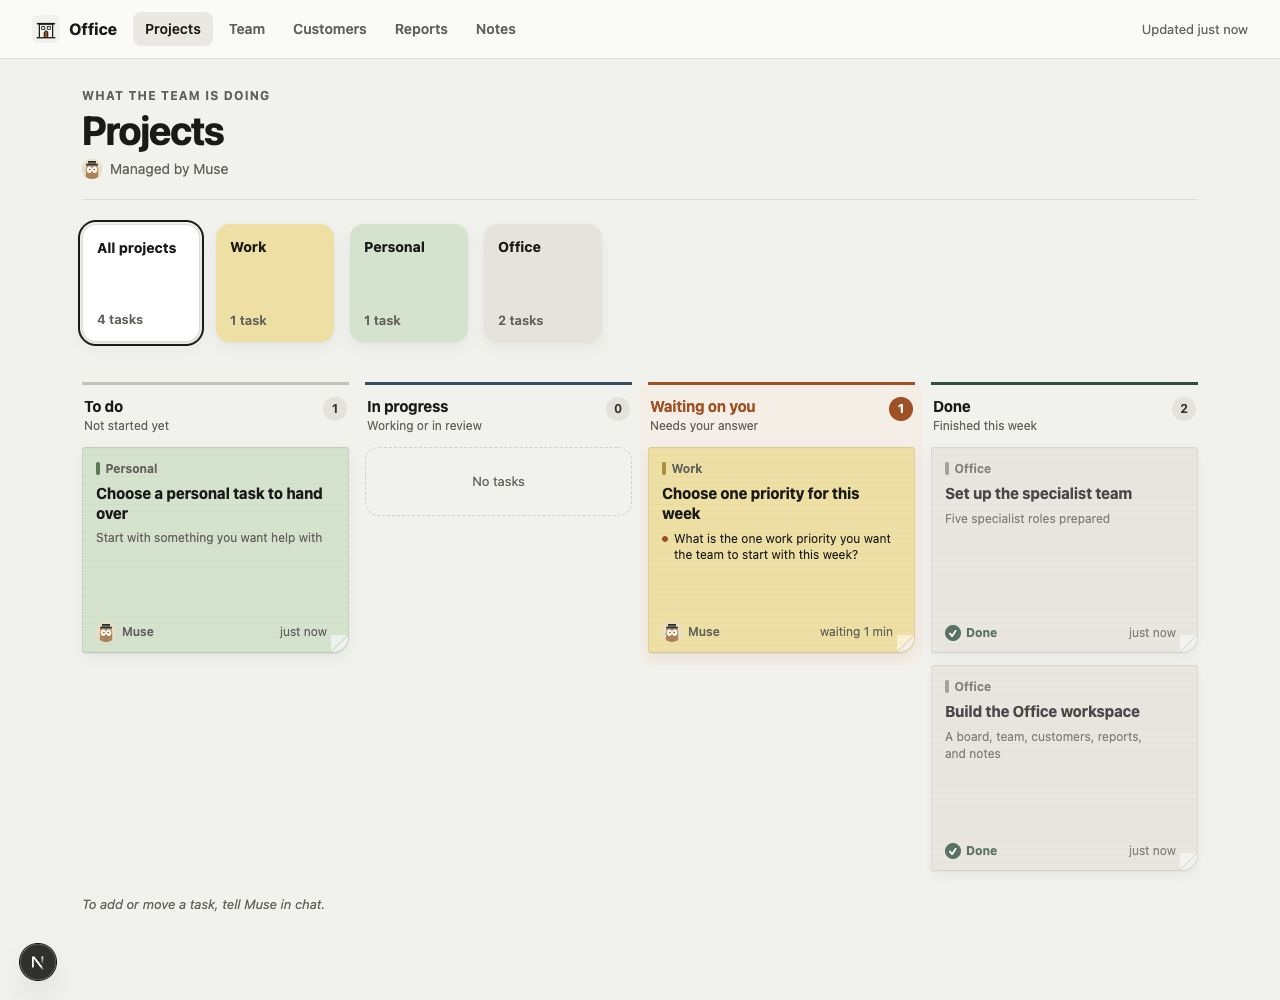
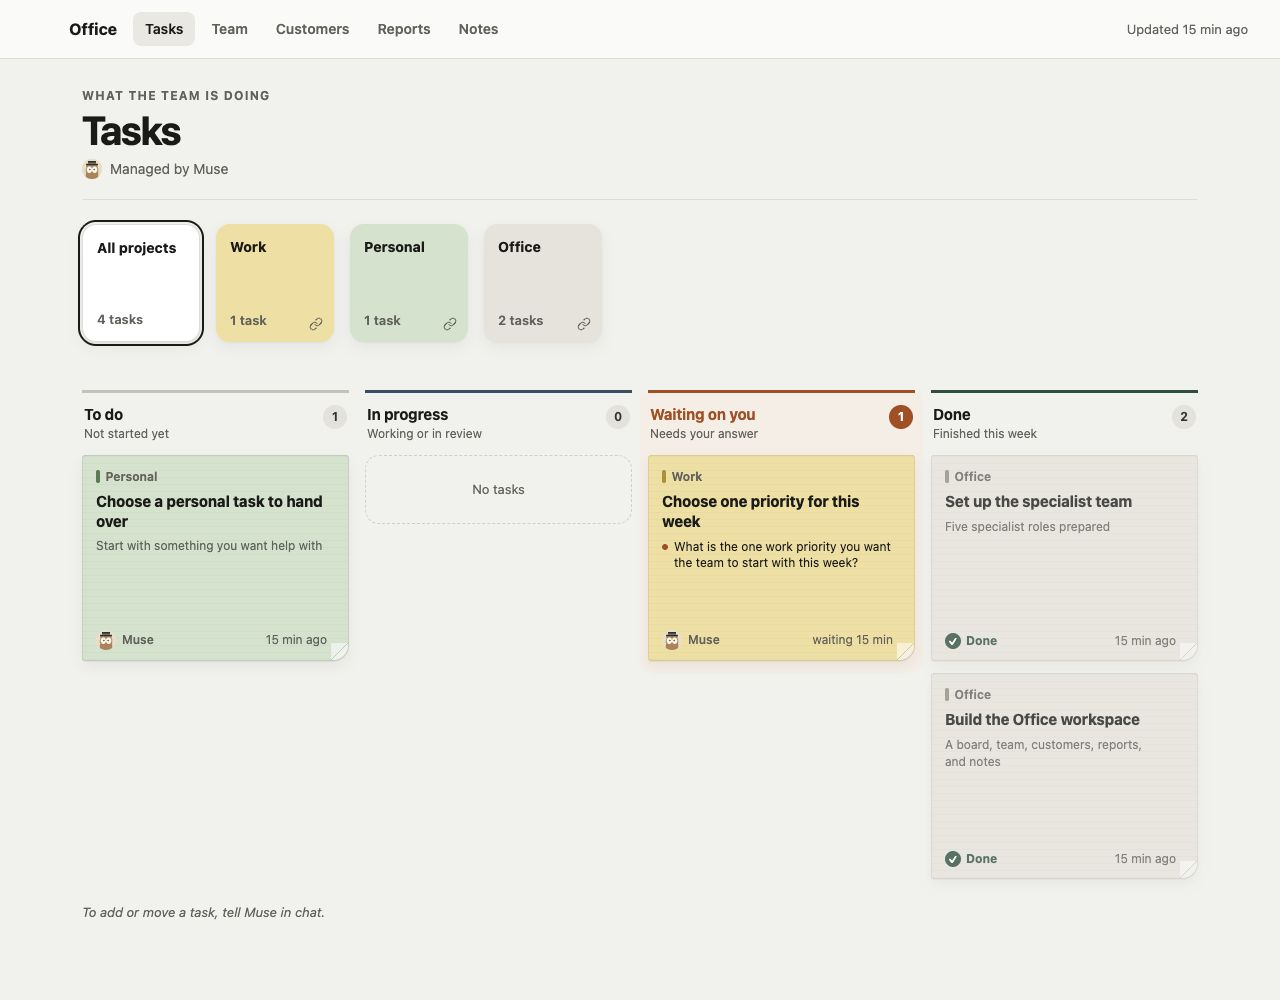
fix(starter): align routing and developer example with new groups
Resolve the two review blockers: the daily instructions no longer route to a missing General group, and the documented action example uses Work. Stack on Tasks navigation so the adjacent setup instructions merge cleanly.

diff --git a/docs/DEVELOPING.md b/docs/DEVELOPING.md
@@ -26,13 +26,13 @@ to a task update. Muse changes the other records through Office actions.
 
 ## What the starter shows
 
-Projects opens with setup work and a real question for the person. Team members
+The board opens with setup work and a real question for the person. Team members
 have illustrated faces. Customers contains orientation contacts outside the
 sales funnel; the funnel stays at zero until real people are added. Reports
 opens with four charts from linked public sources. Notes renders Markdown,
 tables, and Mermaid diagrams.
 
-- [Starter Projects board](screenshots/starter-projects.jpg)
+- [Starter task board](screenshots/starter-groups.png)
 - [Starter Team](screenshots/starter-team.jpg)
 - [Starter Customers](screenshots/starter-customers.jpg)
 - [Starter Reports](screenshots/starter-reports.jpg)
@@ -49,7 +49,7 @@ current starter layout.
 curl -s localhost:3007/api/actions | jq .
 curl -s -X POST localhost:3007/api/actions/create_task \
   -H 'content-type: application/json' \
-  -d '{"project":"website","title":"Pick brand colors","specialist":"designer"}'
+  -d '{"project":"work","title":"Pick brand colors","specialist":"designer"}'
 ```
 
 Every action is `POST /api/actions/<name>` with a JSON body. It responds with

diff --git a/hat/SOUL.md b/hat/SOUL.md
@@ -17,7 +17,7 @@ private Office app.
 3. Fits an existing project? Add a task to it. The project's process.md
    says which specialist takes it.
 4. Nothing fits:
-   - A one-off goes to the General project.
+   - For a one-off, ask which existing project it belongs in.
    - Ongoing work with a goal ("start a newsletter") is a new project.
      Propose it: name, lead specialist, the process in one line. Wait for yes.
      On yes, set it up the way skills/improve-a-process says (New project).
